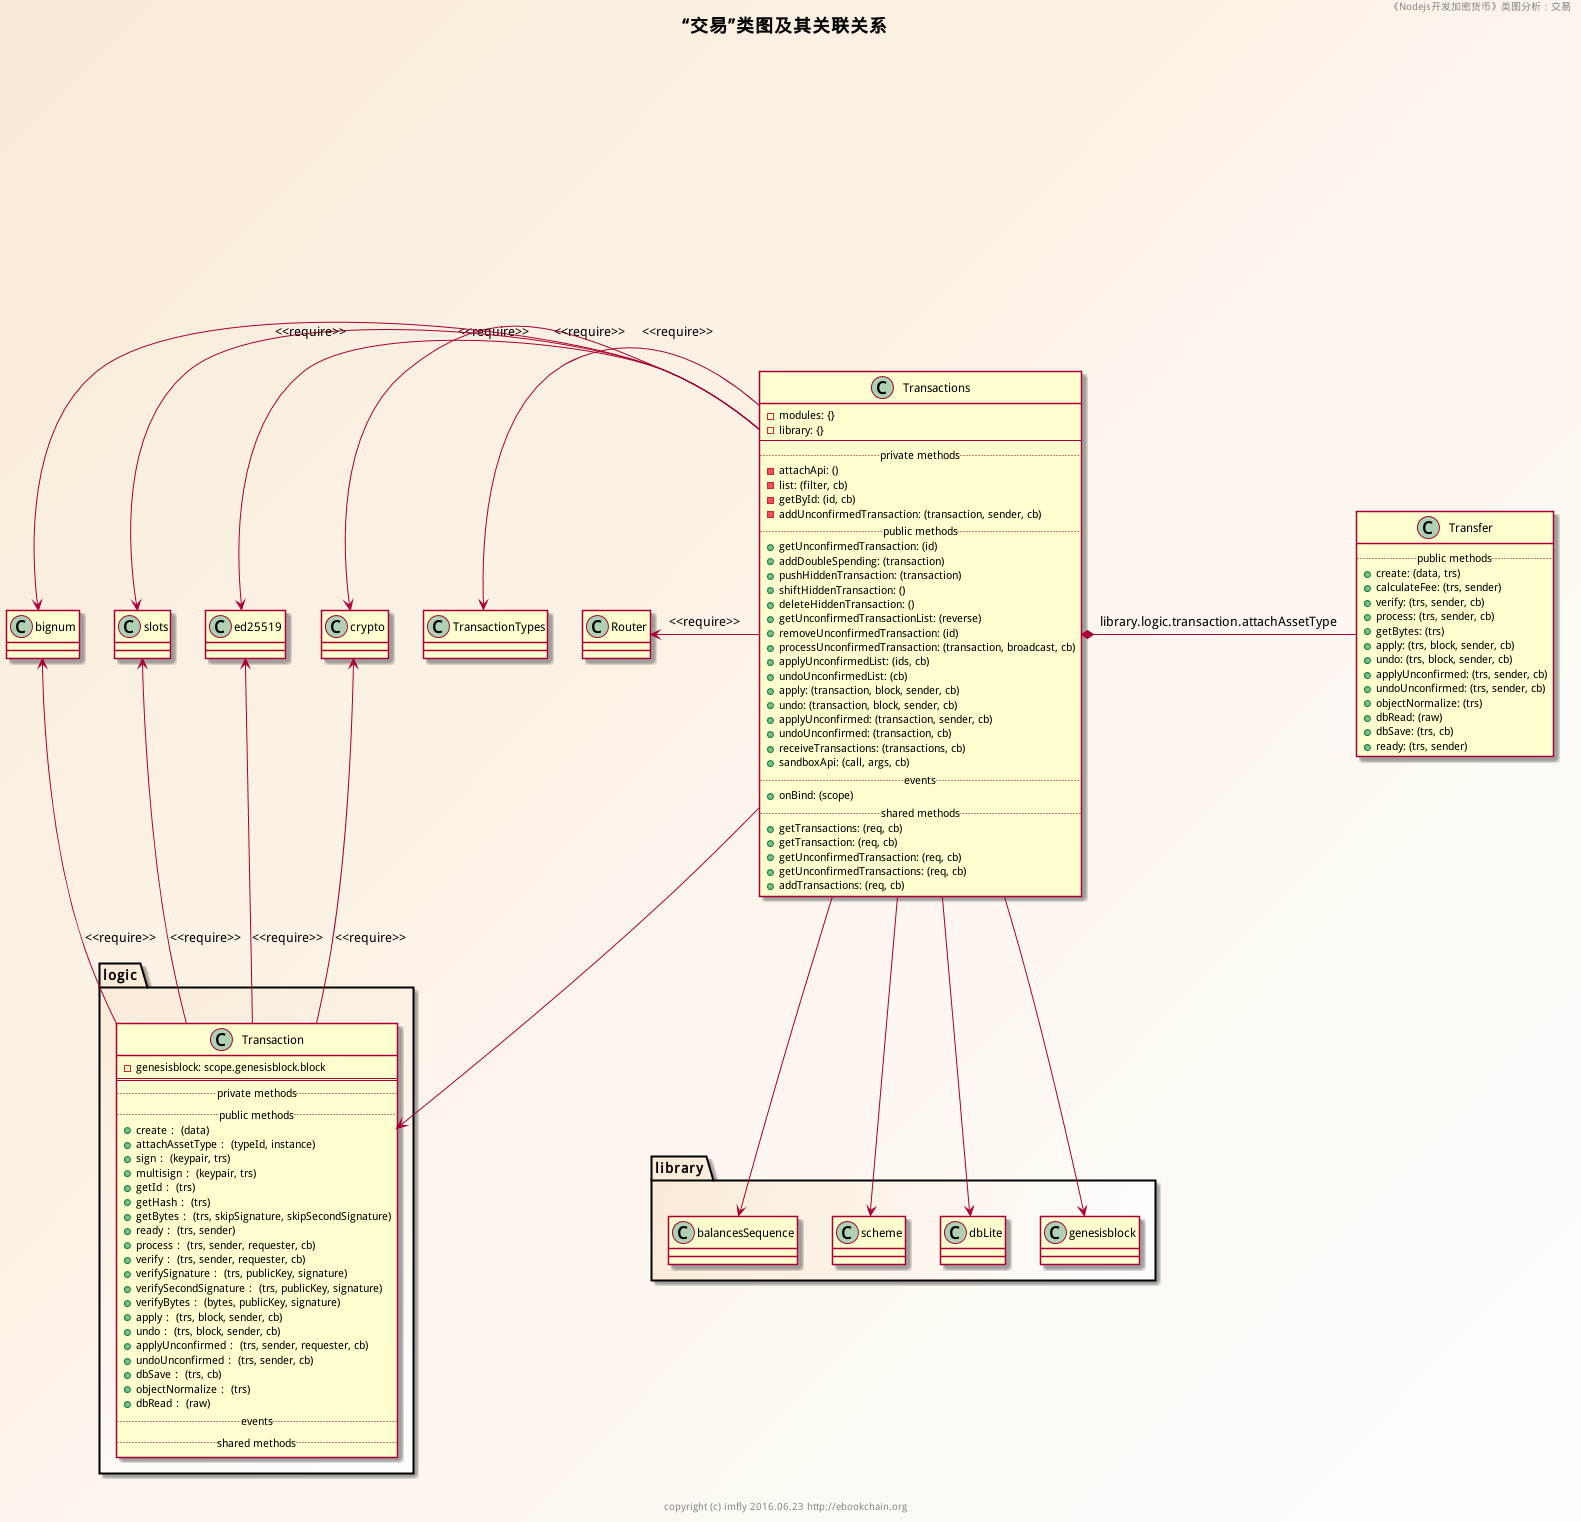
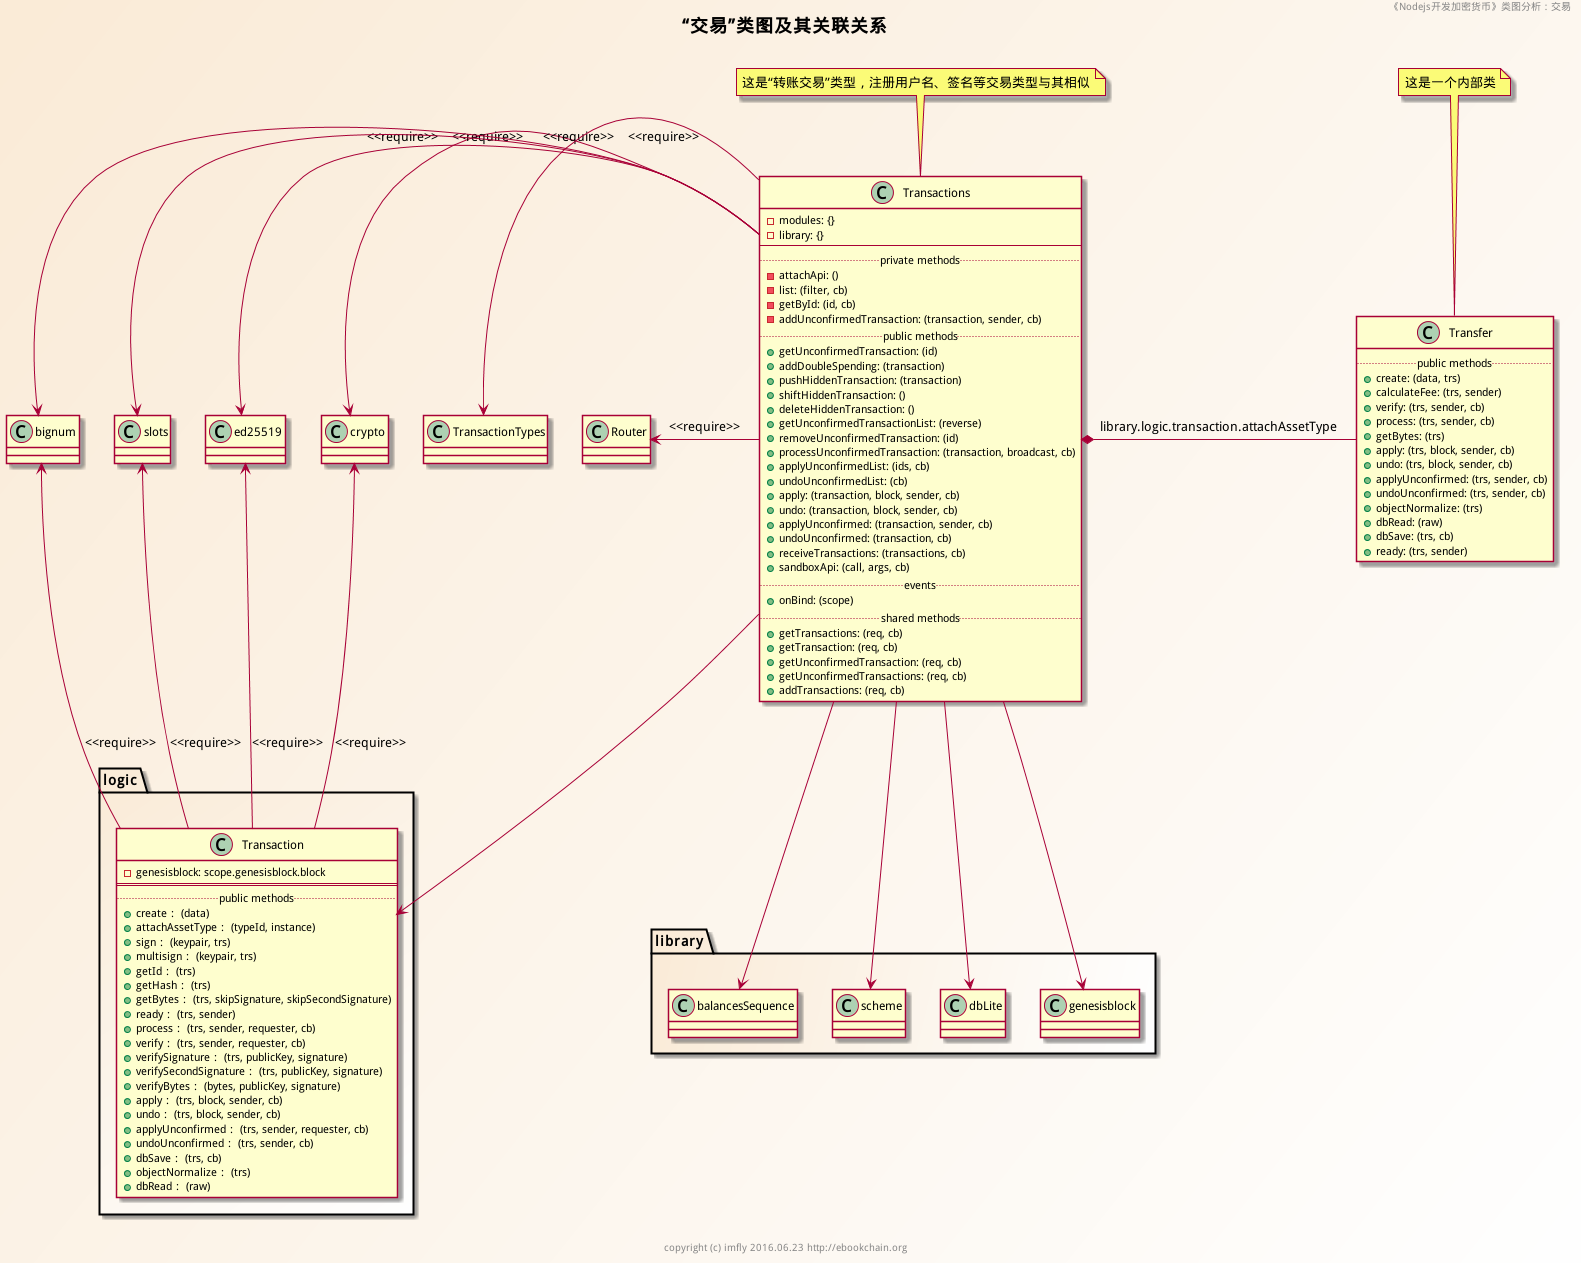
撰写第18篇

diff --git a/3-源码解读/7-交易.md b/3-源码解读/7-交易.md
@@ -12,9 +12,9 @@
 
 transaction-types.js https://github.com/Ebookcoin/ebookcoin/blob/v0.1.3/helpers/transaction-types.js
 
-transactions.js https://github.com/Ebookcoin/ebookcoin/blob/v0.1.3/modules/transactions.js
-
 transaction.js https://github.com/Ebookcoin/ebookcoin/blob/v0.1.3/logic/transaction.js
+
+transactions.js https://github.com/Ebookcoin/ebookcoin/blob/v0.1.3/modules/transactions.js
 
 ## 类图
 
@@ -34,16 +34,215 @@ transaction.js https://github.com/Ebookcoin/ebookcoin/blob/v0.1.3/logic/transact
 
 #### 亿书交易类型
 
+目前的交易类型包括14种（但并不代表全部，下一步会有更多扩展），分别是：
+
+```
+// helpers/transaction-types.js
+module.exports = {
+	SEND : 0,
+	SIGNATURE : 1,
+	DELEGATE : 2,
+	VOTE : 3,
+	USERNAME : 4,
+	FOLLOW : 5,
+	MULTI: 6,
+	DAPP: 7,
+	IN_TRANSFER: 8,
+	OUT_TRANSFER: 9,
+	ARTICALE : 10,
+	EBOOK: 11，
+  BUY: 12，
+	READ: 13
+}
+```
+
+其中，
+
+`SEND`是最基本的转账交易，`SIGNATURE`是上一篇提到的“签名”交易，`DELEGATE`是注册为受托人，`VOTE`是投票，`USERNAME`是注册用户，`FOLLOW`关注和添加联系人，`MULTI`是注册多重签名，`DAPP`是侧链应用，`IN_TRANSFER`是转入Aapp资金，`OUT_TRANSFER`转出Aapp资金，这些是现有版本已经完成的功能。
+
+`ARTICALE`是发布文章，`EBOOK`是发布电子书，`BUY`是购买（电子书或其他商品），`READ`是付费阅读（电子书等，不能下载，价格由作者自由设置），这些功能会逐步添加。
 
 #### 交易逻辑
 
-## 总结
 
-在实际的开发中，很多程序员习惯于从简单的业务功能入手，逐步添加更多的判断条件，这种行为俗称“增量开发”。“增量开发”倡导从基础功能入手，逐步追加各类验证条件，进而实现复杂功能，是保证开发质量的有效手段。
+#### 转账交易
 
-在上两篇《地址》和《签名与多重签名》里，我们在转贴代码的时候，把条件判断的验证部分都隐去了，没有了大量的判断逻辑，阅读掌握相关的业务流程就变得轻松很多，这是对“增量开发”的实践。
+代码实现在`modules/transactions.js`文件里，主要Api如下：
 
-这部分研究之后，我们会感受到代码逻辑的简洁和清晰，聪明的小伙伴一定情不自禁想要添加自己的`交易`类型，扩展更多新功能。是的，亿书也是这么做的。若果想如此，那就大胆操作吧，亿书与你同行。
+```
+// 148行
+router.map(shared, {
+  "get /": "getTransactions",
+  "get /get": "getTransaction",
+  "get /unconfirmed/get": "getUnconfirmedTransaction",
+  "get /unconfirmed": "getUnconfirmedTransactions",
+  "put /": "addTransactions"
+});
+
+// 160行
+library.network.app.use('/api/transactions', router);
+```
+
+解析一下，就是：
+
+```
+get /api/transactions/ -> shared.getTransactions
+get /api/transactions/get -> shared.getTransaction
+get /api/transactions/unconfirmed/get -> shared.getUnconfirmedTransaction
+get /api/transactions/unconfirmed -> shared.getUnconfirmedTransactions
+put /api/transactions/ -> shared.addTransactions
+```
+
+我们仍然把读取数据的Api放一放，因为他们很简单，重点掌握写数据的操作，`put /api/transactions/`，对应方法`shared.addTransactions`，代码如下：
+
+```
+// 652行
+shared.addTransactions = function (req, cb) {
+	var body = req.body;
+	library.scheme.validate(body, {
+		...
+		},
+		required: ["secret", "amount", "recipientId"]
+	}, function (err) {
+		if (err) {
+			return cb(err[0].message);
+		}
+
+		var hash = crypto.createHash('sha256').update(body.secret, 'utf8').digest();
+		var keypair = ed.MakeKeypair(hash);
+
+		if (body.publicKey) {
+			if (keypair.publicKey.toString('hex') != body.publicKey) {
+				return cb("Invalid passphrase");
+			}
+		}
+
+		var query = {};
+
+		var isAddress = /^[0-9]+[L|l]$/g;
+		if (isAddress.test(body.recipientId)) {
+			query.address = body.recipientId;
+		} else {
+			query.username = body.recipientId;
+		}
+
+		library.balancesSequence.add(function (cb) {
+			modules.accounts.getAccount(query, function (err, recipient) {
+				if (err) {
+					return cb(err.toString());
+				}
+				if (!recipient && query.username) {
+					return cb("Recipient not found");
+				}
+				var recipientId = recipient ? recipient.address : body.recipientId;
+				var recipientUsername = recipient ? recipient.username : null;
+
+				if (body.multisigAccountPublicKey && body.multisigAccountPublicKey != keypair.publicKey.toString('hex')) {
+					modules.accounts.getAccount({publicKey: body.multisigAccountPublicKey}, function (err, account) {
+						if (err) {
+							return cb(err.toString());
+						}
+
+						if (!account || !account.publicKey) {
+							return cb("Multisignature account not found");
+						}
+
+						if (!account.multisignatures || !account.multisignatures) {
+							return cb("Account does not have multisignatures enabled");
+						}
+
+						if (account.multisignatures.indexOf(keypair.publicKey.toString('hex')) < 0) {
+							return cb("Account does not belong to multisignature group");
+						}
+
+						modules.accounts.getAccount({publicKey: keypair.publicKey}, function (err, requester) {
+							if (err) {
+								return cb(err.toString());
+							}
+
+							if (!requester || !requester.publicKey) {
+								return cb("Invalid requester");
+							}
+
+							if (requester.secondSignature && !body.secondSecret) {
+								return cb("Invalid second passphrase");
+							}
+
+							if (requester.publicKey == account.publicKey) {
+								return cb("Invalid requester");
+							}
+
+							var secondKeypair = null;
+
+							if (requester.secondSignature) {
+								var secondHash = crypto.createHash('sha256').update(body.secondSecret, 'utf8').digest();
+								secondKeypair = ed.MakeKeypair(secondHash);
+							}
+
+							try {
+								var transaction = library.logic.transaction.create({
+									type: TransactionTypes.SEND,
+									amount: body.amount,
+									sender: account,
+									recipientId: recipientId,
+									recipientUsername: recipientUsername,
+									keypair: keypair,
+									requester: keypair,
+									secondKeypair: secondKeypair
+								});
+							} catch (e) {
+								return cb(e.toString());
+							}
+							modules.transactions.receiveTransactions([transaction], cb);
+						});
+					});
+				} else {
+					modules.accounts.getAccount({publicKey: keypair.publicKey.toString('hex')}, function (err, account) {
+						if (err) {
+							return cb(err.toString());
+						}
+						if (!account || !account.publicKey) {
+							return cb("Invalid account");
+						}
+
+						if (account.secondSignature && !body.secondSecret) {
+							return cb("Invalid second passphrase");
+						}
+
+						var secondKeypair = null;
+
+						if (account.secondSignature) {
+							var secondHash = crypto.createHash('sha256').update(body.secondSecret, 'utf8').digest();
+							secondKeypair = ed.MakeKeypair(secondHash);
+						}
+
+						try {
+							var transaction = library.logic.transaction.create({
+								type: TransactionTypes.SEND,
+								amount: body.amount,
+								sender: account,
+								recipientId: recipientId,
+								recipientUsername: recipientUsername,
+								keypair: keypair,
+								secondKeypair: secondKeypair
+							});
+						} catch (e) {
+							return cb(e.toString());
+						}
+						modules.transactions.receiveTransactions([transaction], cb);
+					});
+				}
+			});
+		}, function (err, transaction) {
+			if (err) {
+				return cb(err.toString());
+			}
+
+			cb(null, {transactionId: transaction[0].id});
+		});
+	});
+}
+```
 
 ## 参考
 
